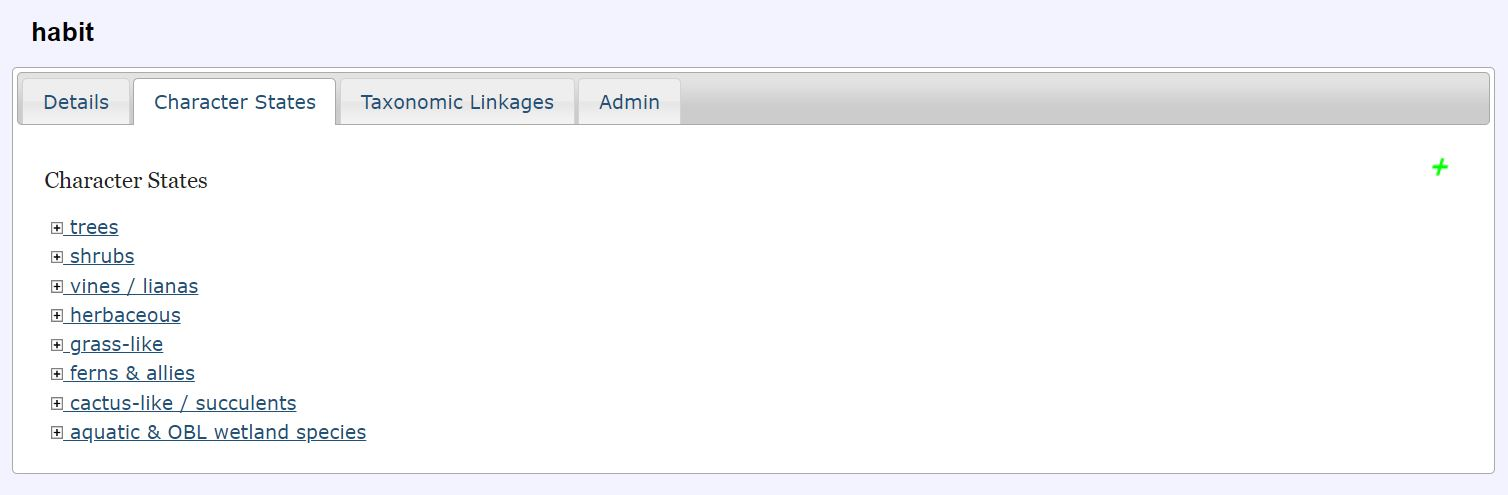
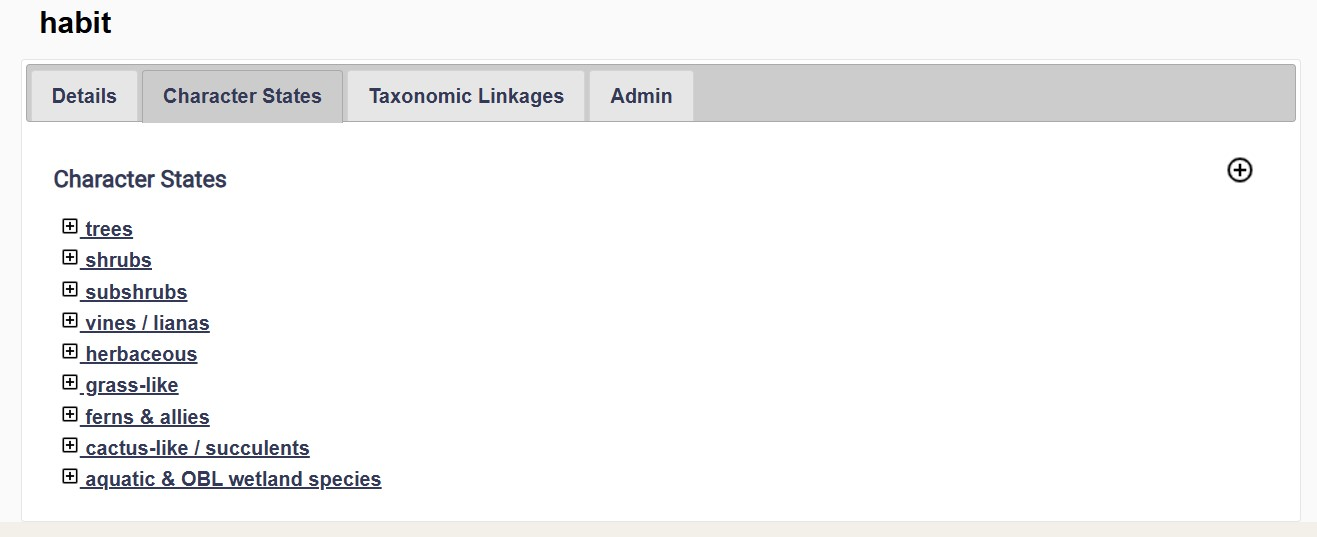
Update screenshots for User Guide

Changed region(s): [[0.0, 0.1212, 0.9962, 0.3636], [0.0311, 0.303, 0.3113, 0.9091], [0.0, 0.0303, 0.0934, 0.0909]]

diff --git a/content/user/idkeys/admin/_index.en.md b/content/user/idkeys/admin/_index.en.md
@@ -1,7 +1,7 @@
 ---
 title: "(Admin) Adding/Editing ID Key Characters & States"
 date: 2022-10-31
-lastmod: 2022-11-02
+lastmod: 2024-12-11
 draft: false
 weight: 40
 authors: ["Katie Pearson"]
@@ -63,6 +63,6 @@ The final "Admin" tab allows you to delete the character. All character states m
 
 From the Character Management page, click on the name of the character that belongs to the state you wish to edit. Navigate to the **Character States** tab. To edit an existing character state, click on the name of the character state. In the **Character State Details** box, you can edit the state name, the description, the related glossary term, the notes, and the sort sequence of the character. Scroll down to the **Illustration** box to add an illustration of the character state. Scroll down to the **Delete Character State** box to evaluate the state for deletion. All images, languages, and descriptions to the character state must be unlinked before a state can be deleted.
 
-To add a new character state, click the green plus sign at the top right side of the page (highlighted below).
+To add a new character state, click the green plus sign at the top right side of the page (circled below).
 
 ![Character State Editor Page](/symbiota-docs/images/editcharacterstate.JPG)

diff --git a/content/user/idkeys/edit/_index.en.md b/content/user/idkeys/edit/_index.en.md
@@ -1,7 +1,7 @@
 ---
 title: "(Editor) Editing ID Key States for Taxa"
 date: 2022-10-31
-lastmod: 2022-11-02
+lastmod: 2024-12-11
 draft: false
 weight: 40
 authors: ["Katie Pearson"]
@@ -29,7 +29,7 @@ Setting up identification keys in a portal requires the administrator to import 
 ### Editing Character States Assigned to Taxa
 The character states applied to taxa can be edited from the checklist editor. If you would like to edit the character states for taxa, but don't have a specific checklist in which to do so, you can [create a temporary checklist](https://biokic.github.io/symbiota-docs/user/checklist/create/) in which to do this and then delete the checklist once you are done.
 
-Ensure that you are logged in, then navigate to the checklist containing the taxa you would like to edit. Click the small pencil icon with "CM" next to it in the top right corner of the page.
+Ensure that you are logged in, then navigate to the checklist containing the taxa you would like to edit. Click the small pencil icon with "Edit Character Matrix" next to it in the top right corner of the page.
 
 ![Character Matrix Editor link](/symbiota-docs/images/editcharactermatrix.JPG)
 

diff --git a/content/user/checklist/voucher/_index.en.md b/content/user/checklist/voucher/_index.en.md
@@ -3,7 +3,7 @@ title: "Adding Vouchers to Checklist"
 date: 2021-10-14
 authors: ["Katie Pearson","Neil Cobb","Ed Gilbert"]
 editors: ["Katie Pearson"]
-lastmod: 2024-01-26
+lastmod: 2024-12-11
 draft: false
 weight: 15
 keywords: ["checklist","inventory","flora","voucher"]
@@ -18,9 +18,9 @@ There are two main ways to add voucher specimens to a research checklist. You ca
 {{< youtube NRW2kh6xln0 >}}
 
 1. Navigate to the homepage of your checklist.
-2. Click the pencil icon that has a V next to it (the center icon in the top right corner of the page, circled below).
+2. Click the pencil icon that has a V next to it (the center icon in the top right corner of the page, highlighted below).
 
-![Manage Linked Vouchers](/symbiota-docs/images/checklistexample.jpg)
+![Manage Linked Vouchers](/symbiota-docs/images/checklistexample.png)
 
 3. If this is the first time you have used this tool, you will be asked to first define the search statement (i.e., search parameters) that will be used to find the specimens that might pertain to your checklist. You can use a variety of fields to define your search, as described below.
 

diff --git a/content/user/checklist/games/_index.en.md b/content/user/checklist/games/_index.en.md
@@ -1,7 +1,9 @@
 ---
 title: "Games in Checklists"
 date: 2022-04-08
+lastmod: 2024-12-11
 authors: ["Lindsay Walker"]
+editors: ["Katie Pearson"]
 draft: false
 weight: 48
 keywords: ["checklist","inventory","flora","games"]
@@ -12,9 +14,8 @@ keywords: ["checklist","inventory","flora","games"]
 {{</ notice >}}
 
 1. Log into your Symbiota profile and navigate to your portal's list of existing checklists. Look for a "Projects" or "Checklists" tab at the top of your portal interface.
-![Projects Tab from Checklist](/symbiota-docs/images/games_projectstab.png)
 
-2. Select the checklist containing content that you wish to create a game from. When the checklist's page opens, hover over the "Games" icon to select the game you wish to use.
+2. Select the checklist containing content that you wish to play with. On the checklist page, click the "Games" link at the top of the Options box.
 ![Games Navigation from Checklist](/symbiota-docs/images/games_navigation.png)
 
 ## Name Game

diff --git a/content/user/checklist/conflict/_index.en.md b/content/user/checklist/conflict/_index.en.md
@@ -1,6 +1,7 @@
 ---
 title: "Voucher Conflicts Tab"
 date: 2021-12-15
+lastmod: 2024-12-11
 weight: 60
 authors: ["Katie Pearson"]
 keywords: ["checklist","voucher","identification"]

diff --git a/content/user/checklist/report/_index.en.md b/content/user/checklist/report/_index.en.md
@@ -1,6 +1,7 @@
 ---
 title: "Exporting Checklist Reports"
 date: 2021-12-15
+lastmod: 2024-12-11
 weight: 35
 authors: ["Katie Pearson"]
 keywords: ["checklist","report"]

diff --git a/content/user/checklist/split/_index.en.md b/content/user/checklist/split/_index.en.md
@@ -1,7 +1,7 @@
 ---
 title: "Splitting Checklists"
 date: 2023-01-04
-lastmod: 2023-01-04
+lastmod: 2024-12-11
 authors: ["Katie Pearson"]
 draft: false
 weight: 50

diff --git a/content/user/checklist/add/_index.en.md b/content/user/checklist/add/_index.en.md
@@ -1,6 +1,7 @@
 ---
 title: "Adding Taxa to Checklist"
 date: 2021-10-14
+lastmod: 2024-12-11
 authors: ["Neil Cobb", "Katie Pearson"]
 draft: false
 weight: 10
